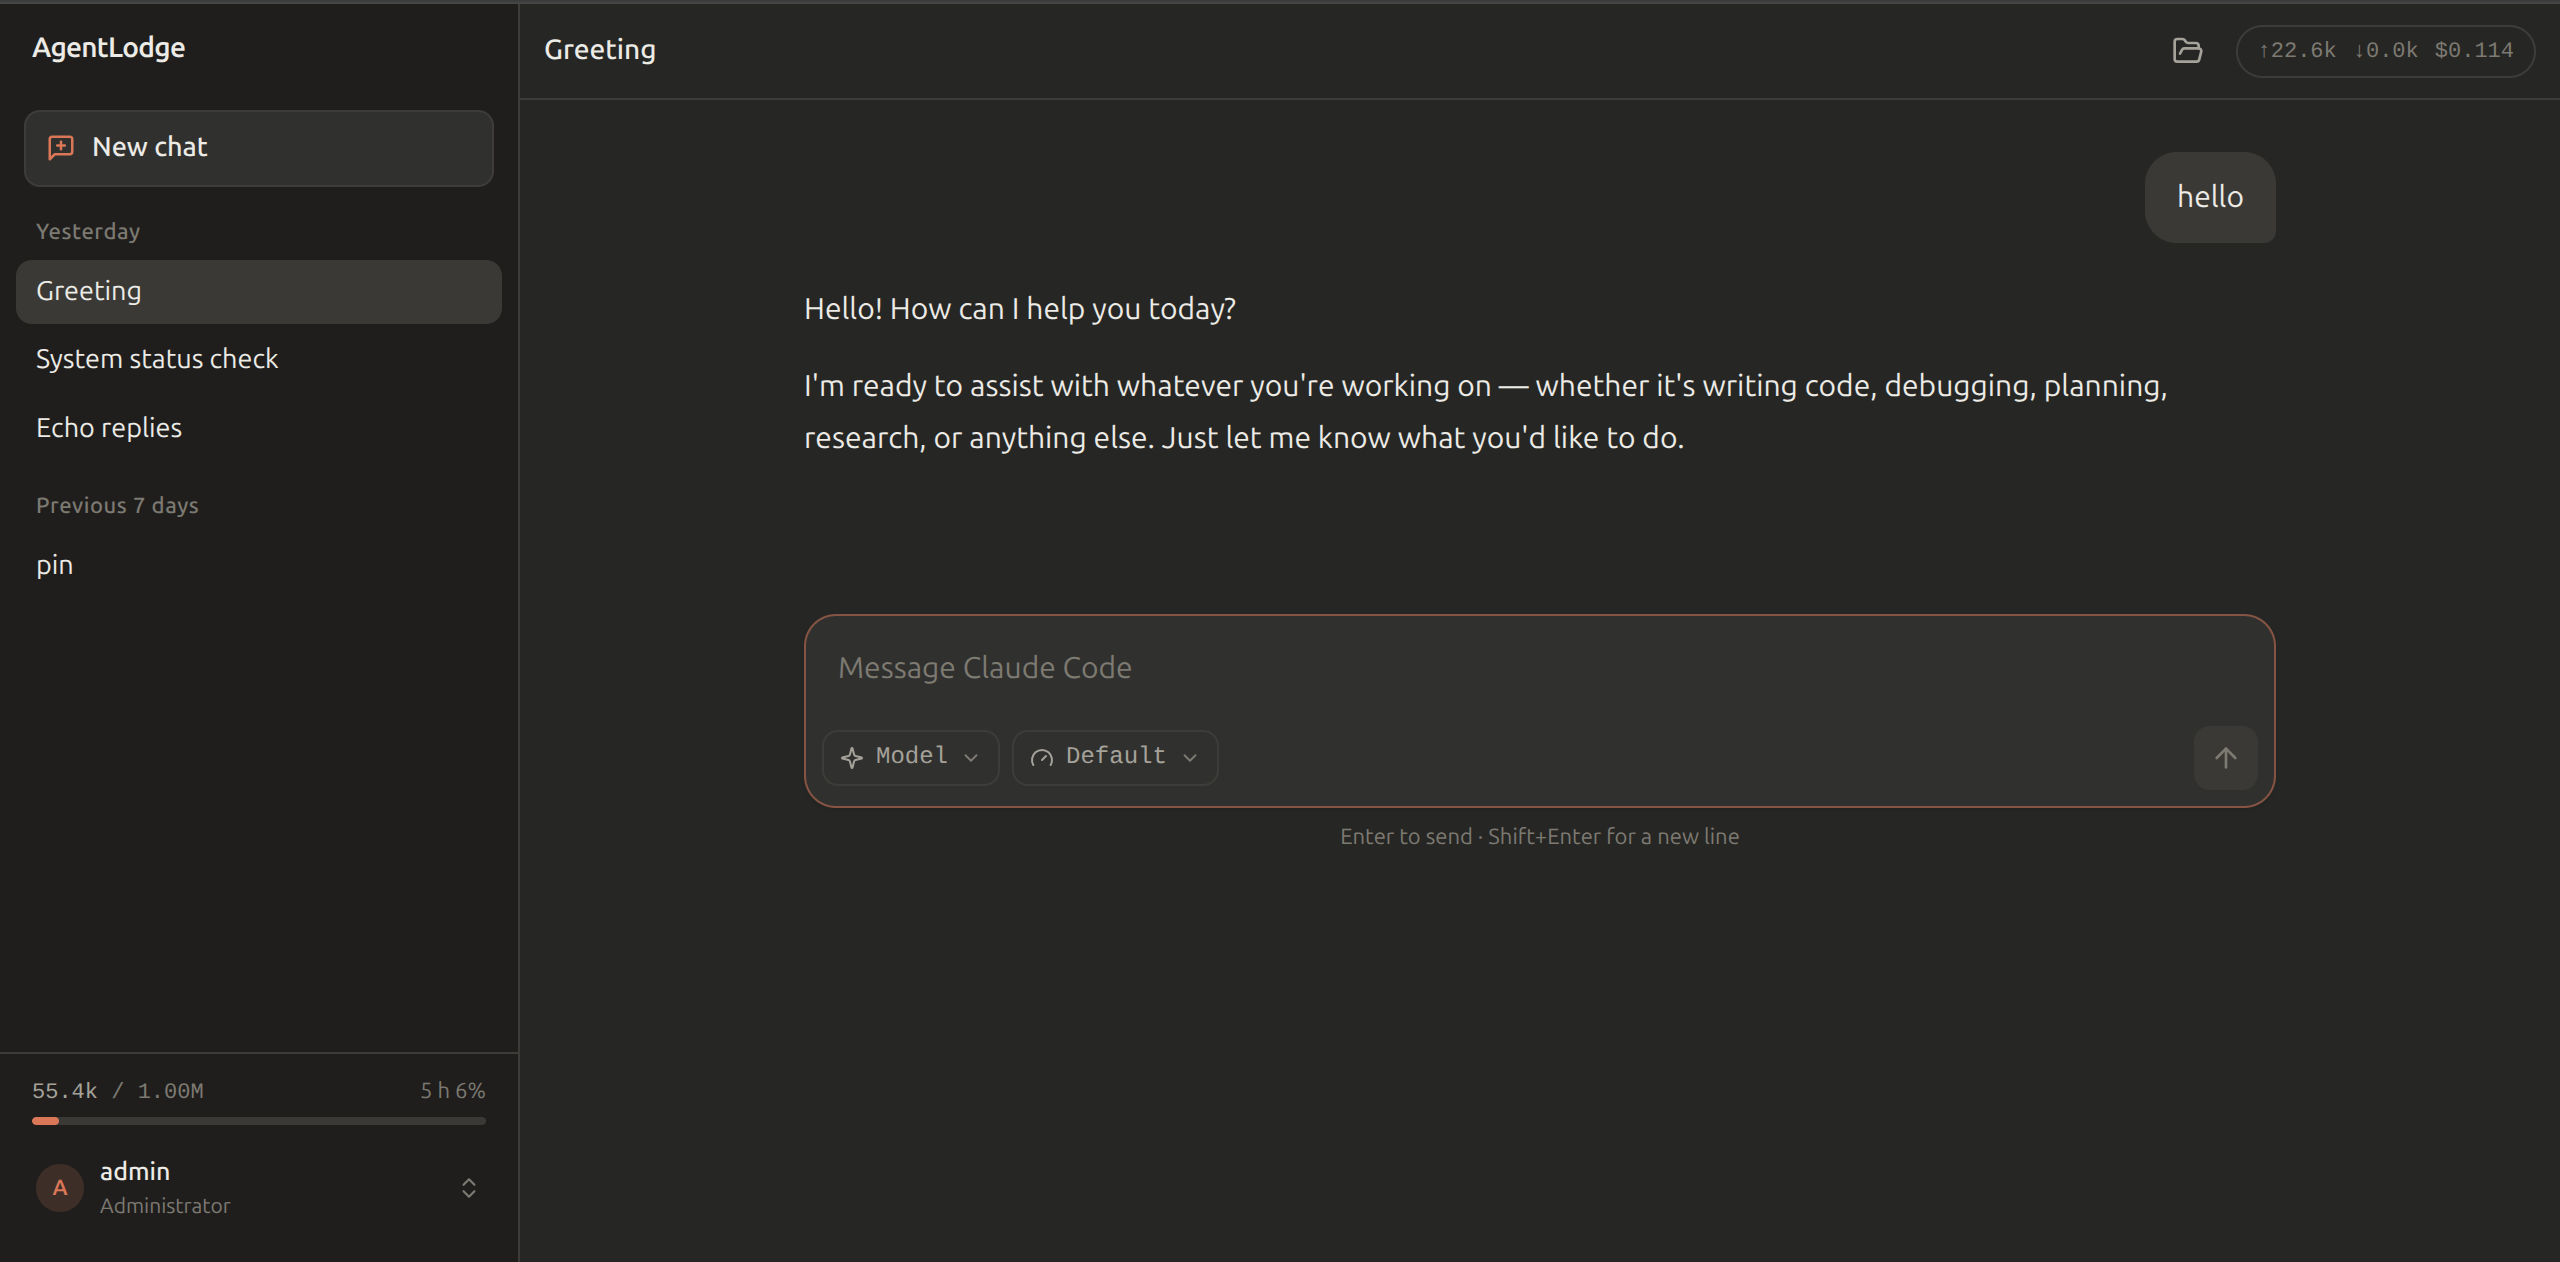
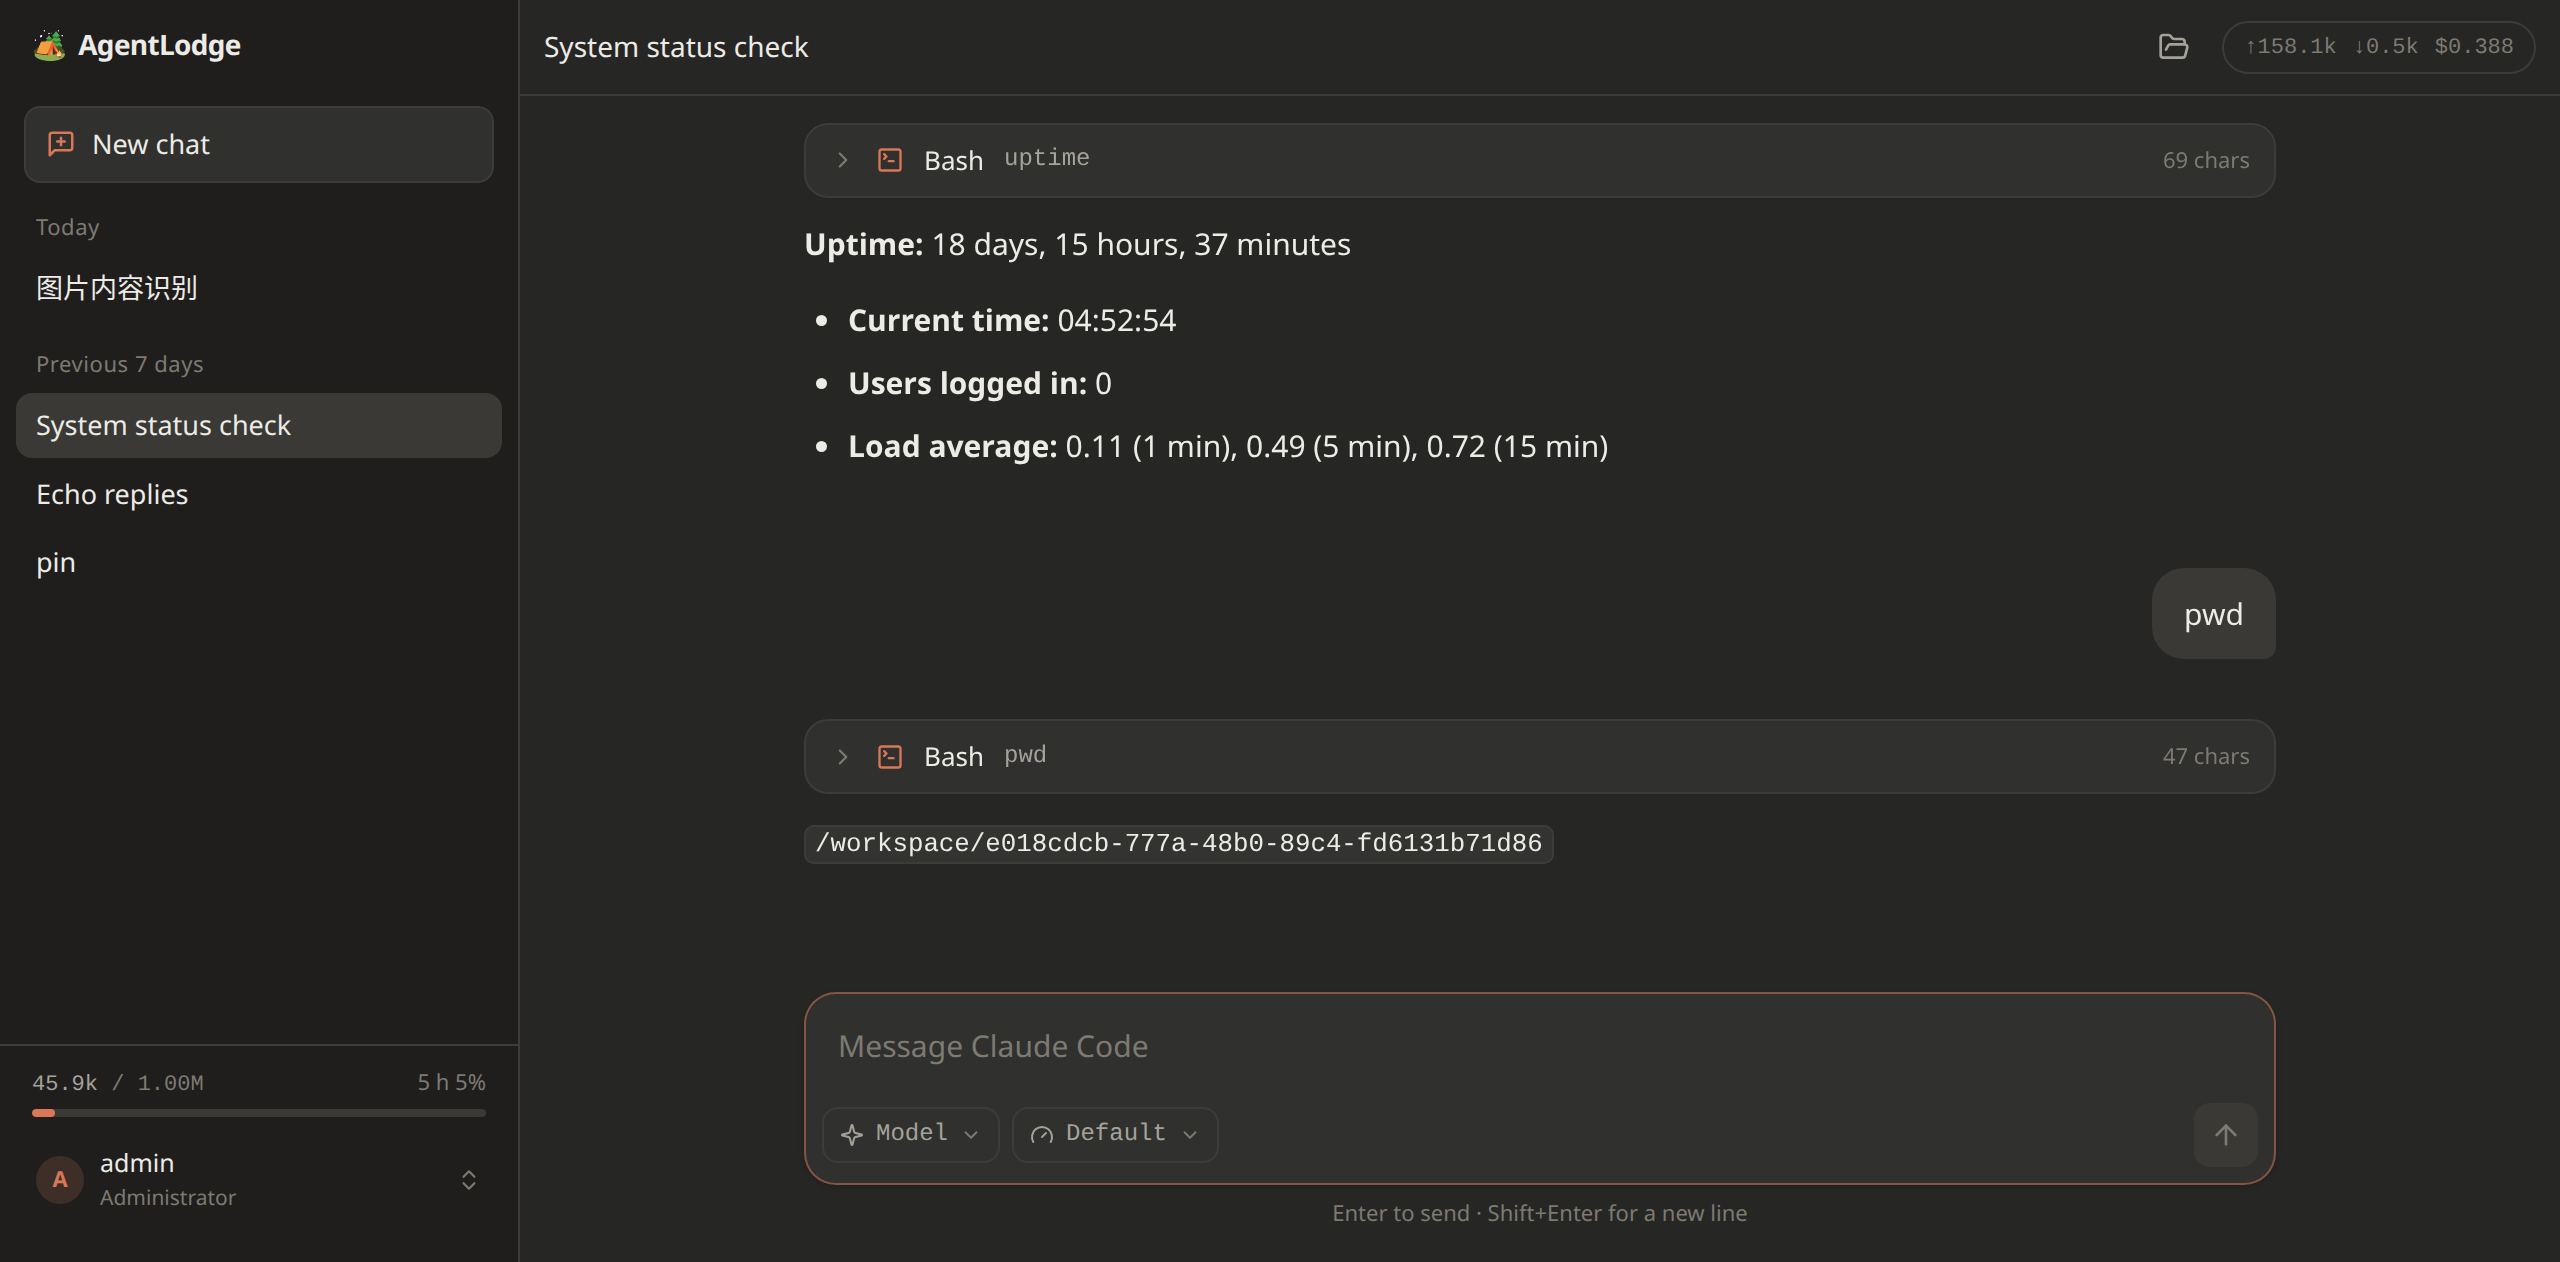
site: retake the screenshots, and a script that can retake them again
The chat one showed the composer floating in the middle of the page, which is
the layout bug this branch fixed — the page was advertising it. The new one is
the same view with the box where it belongs, and a second shot shows what the
console now looks like: credentials held by name, and three upstreams live at
once.

scripts/screenshot.mjs is how they were taken: headless Chrome over CDP, a
1280×631 viewport at scale 2 for the 2560×1262 the files are stored at, signed
in with the refresh cookie the login endpoint hands out. Taking them by hand
gives a different window size and scroll position every time.

Claude-Session: https://claude.ai/code/session_01W6D7sNb8Qj3hvFRpjWGhjP

diff --git a/site/index.html b/site/index.html
@@ -181,6 +181,7 @@ footer a:hover{color:var(--text)}
      <span class="en">A close copy of the Claude interface, plus usage, memory and a console. Click one to open it full size.</span></p>
   <div class="shots" id="shots">
     <figure><a href="shot-chat.png" target="_blank" rel="noopener"><img src="shot-chat.png" alt="" loading="lazy"></a><figcaption><span class="zh">对话</span><span class="en">Chat</span></figcaption></figure>
+    <figure><a href="shot-credentials.png" target="_blank" rel="noopener"><img src="shot-credentials.png" alt="" loading="lazy"></a><figcaption><span class="zh">上游与凭据</span><span class="en">Upstreams and credentials</span></figcaption></figure>
     <figure><a href="shot-usage.png" target="_blank" rel="noopener"><img src="shot-usage.png" alt="" loading="lazy"></a><figcaption><span class="zh">用量与配额</span><span class="en">Usage and quota</span></figcaption></figure>
     <figure><a href="shot-memory.png" target="_blank" rel="noopener"><img src="shot-memory.png" alt="" loading="lazy"></a><figcaption><span class="zh">长期记忆</span><span class="en">Long-term memory</span></figcaption></figure>
     <figure><a href="shot-admin.png" target="_blank" rel="noopener"><img src="shot-admin.png" alt="" loading="lazy"></a><figcaption><span class="zh">管理后台</span><span class="en">Admin console</span></figcaption></figure>

diff --git a/DESIGN.md b/DESIGN.md
@@ -1430,7 +1430,7 @@ AgentLodge/
 ├── credential-proxy/     # 独立的凭据注入网关，可选
 ├── credential-manager/   # Go 写的凭据管理服务，存放全部上游凭据
 ├── docker/               # Dockerfile、compose、Caddyfile
-└── scripts/              # 结构检查、假上游、冒烟自测
+└── scripts/              # 结构检查、假上游、冒烟自测、项目页截图
 ```
 
 app 和 gateway 不拆成两个包：代码本就是两个独立的 Fastify app，同包分层 + 边界检查
